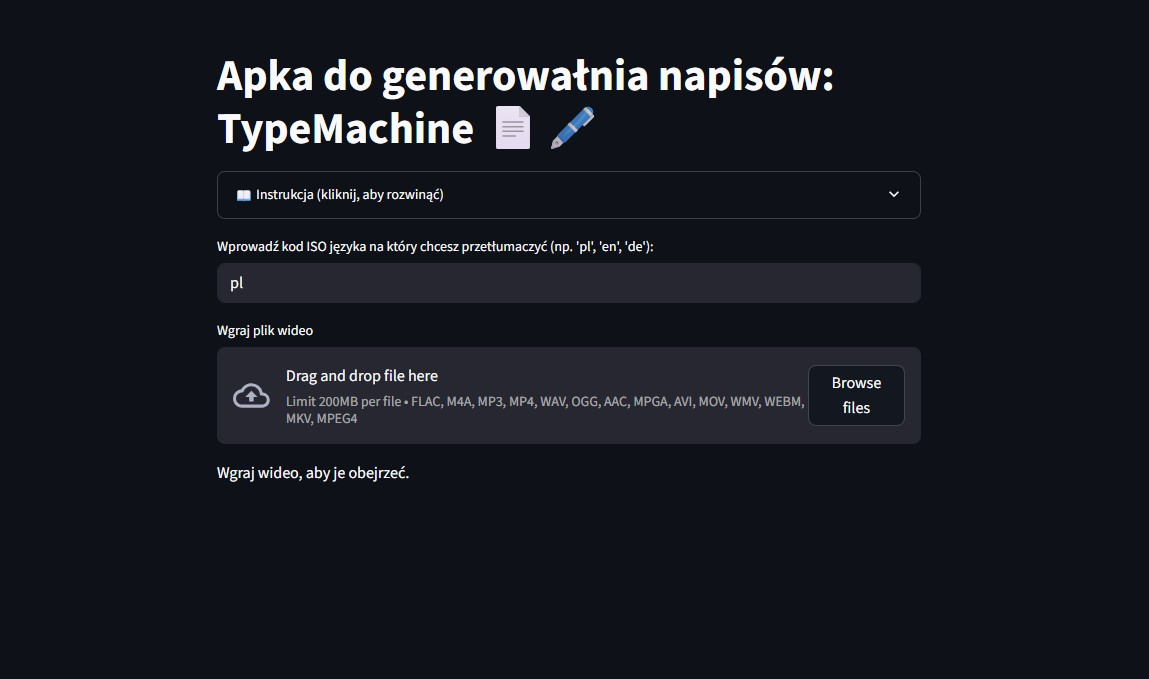
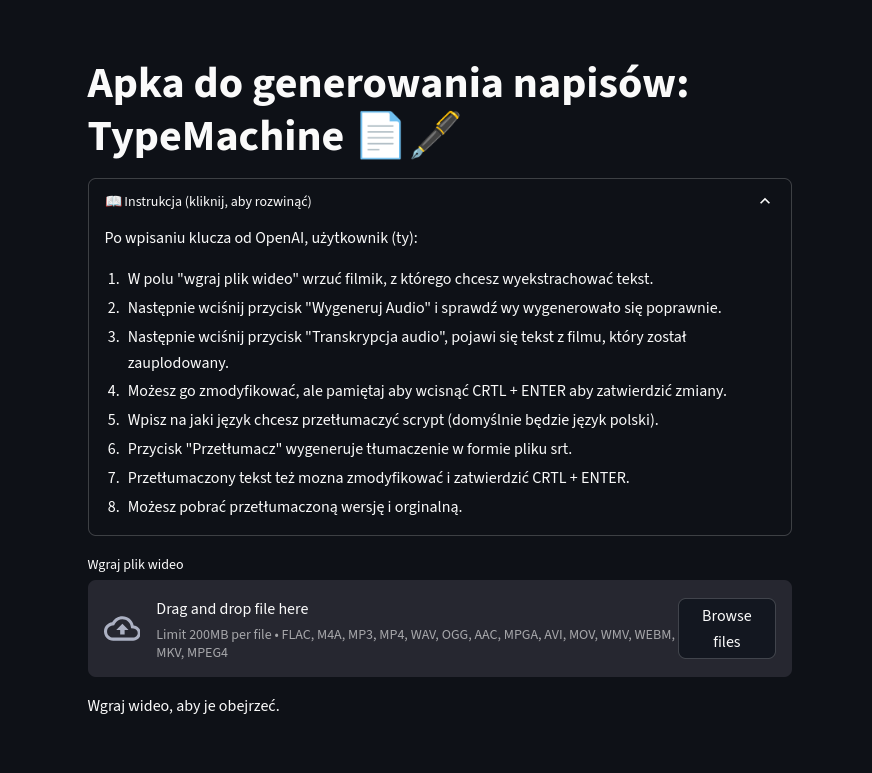
update typemachine

diff --git a/docs/typemachine/index.md b/docs/typemachine/index.md
@@ -2,19 +2,110 @@
 
 ### Description
 
-It uses OpenAI’s "whisper-1" model to generate subtitles from mp3 files extracted from videos.
+Typemachine is a Streamlit-based application for generating subtitles from short video files.
+
+The app extracts audio from a video, transcribes speech to text using OpenAI, allows basic text editing, translates the transcript into a selected language, and exports subtitles in SRT format.
+
 Due to technological limitations, the size of the processed video is limited to 200MB.
 
-Have fun!. 🎠
+### ✨ Features
 
-### Description:
-1. Select the target translation language by entering its ISO code
-2. In the “Upload video file” field, upload the video from which you want to extract text
-3. Click the “Generate Audio” button and check if the audio was generated correctly
-4. The extracted text from the uploaded video will appear
-5. You can edit this text, but remember to press CTRL+ENTER to confirm the changes
-6. After clicking the “Download transcription as .srt file” button, the file will be saved to your disk
-7. If you don’t want to download a file from an unknown internet source (which is a good practice), you can copy the extracted text to a notepad.txt file and then change its extension to .srt
+- Upload short video files
+- Extract audio using ffmpeg
+- Speech-to-text transcription (OpenAI)
+- Editable transcript
+- Translation into a target language
+- Export original and translated subtitles as .srt
+
+### Quick start
+
+🚀 Installation & Setup 1⃣ Clone the repository git clone https://github.com/your-username/typemachine.git cd typemachine
+
+2⃣ Create Conda environment (Make sure you have Conda installed (Anaconda or Miniconda)).
+
+conda env create -f environment.yml
+
+    Activate the environment:
+
+conda activate typemachine
+
+3⃣ Environment variables
+
+Create a .env file in the project root directory:
+
+OPENAI_API_KEY=your_openai_api_key_here
+
+If not type the openai key in start of applicatin
+
+4⃣ Run the application streamlit run app/main.py
+
+The application will be available at:
+
+http://localhost:8501
+
+### Instructions of use:
+
+After entering your OpenAI key, you (the user) can:
+
+1. In the "Upload Video" field, upload the video from which you want to extract text.
+2. Then press the "Generate Audio" button and check if the audio was generated correctly.
+3. Next, press the "Audio Transcription" button — the text from the uploaded video will appear.
+4. You can modify it, but remember to press CTRL + ENTER to confirm your changes.
+5. Enter the language you want to translate the script into (by default, it will be Polish).
+6. Press the "Translate" button to generate a translation in SRT file format.
+7. The translated text can also be modified and confirmed with CTRL + ENTER.
+8. You can download both the translated version and the original.
+
+🔄 Application Flow
+
+    A[Upload Video] --> B[Extract Audio (ffmpeg)]
+    B --> C[Generate Audio File]
+    C --> D[Audio Transcription (OpenAI)]
+    D --> E[Editable Transcript]
+    E --> F[Translation]
+    F --> G[Editable Tranlated Transcript]
+    G --> H[SRT File Output]
+
+### quick-spec:
+
+Python 3.11.11
+
+#### Name Version Build Channel
+
+1. streamlit 1.42.0 py311haa95532_0
+2. streamlit-audiorecorder 0.0.6 pypi_0 pypi
+3. pydub 0.25.1 pyhd8ed1ab_1 conda-forge
+4. python-dotenv 0.21.0 py311haa95532_0
+5. openai 2.14.0 pyhd8ed1ab_0 conda-forge
+6. ffmpeg 6.1.1 hc79a5da_2
+7. ffmpeg-python 0.2.0 pypi_0 pypi
+
+#### Also in use:
+
+io,
+BytesIO,
+hashlib,
+md5
+os
+
+# Project Structure
+
+=================
+
+```
+app/
+│
+├── ai/
+│   └── transcrible.py  --> all function needed for recognition the langue of text, transcrible and translate of text
+│
+├── audio/
+│   └── extract.py  --> function needed for extract mp3 format from Video
+│
+├── config/
+│   └── settings.py  --> hardcode the AI model used in project
+│
+└── main.py  --> main code of the app.
+```
 
 <a href="https://typemachine.site/" download class="md-button md-button--primary">Link to app</a>
 <a href="https://github.com/KrzysztofZakrzewski/typemachine/tree/srt" download class="md-button md-button--primary">GitHub</a>
@@ -31,7 +122,8 @@ Have fun!. 🎠
 
 ### Appearance of the application
 ![screenshot_1](./media/typemachine_1.jpg)
-![screenshot_1](./media/typemachine_2.jpg)
+![screenshot_2](./media/typemachine_2.jpg)
+![screenshot_3](./media/typemachine_3.jpg)
 
 <script>
 function resizeIframeToFitContent(iframe) {
